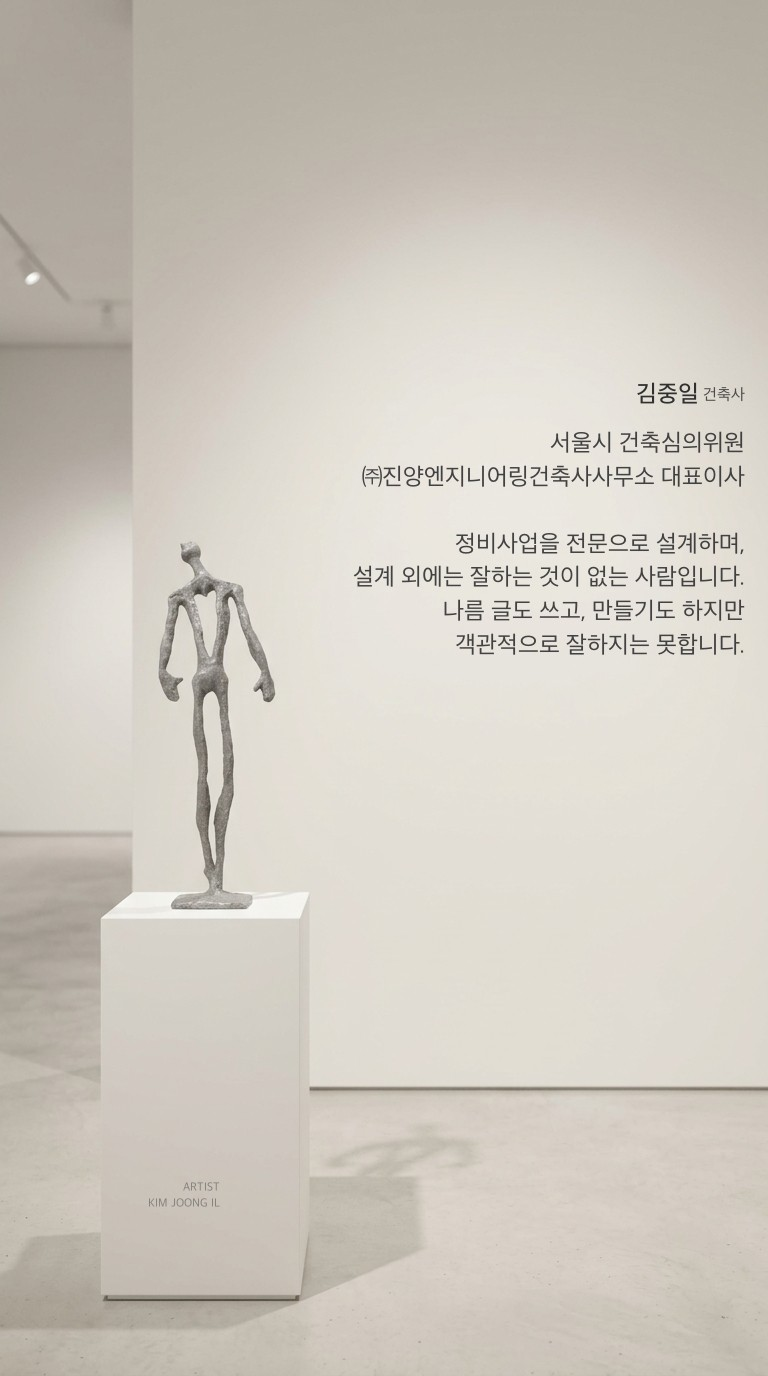
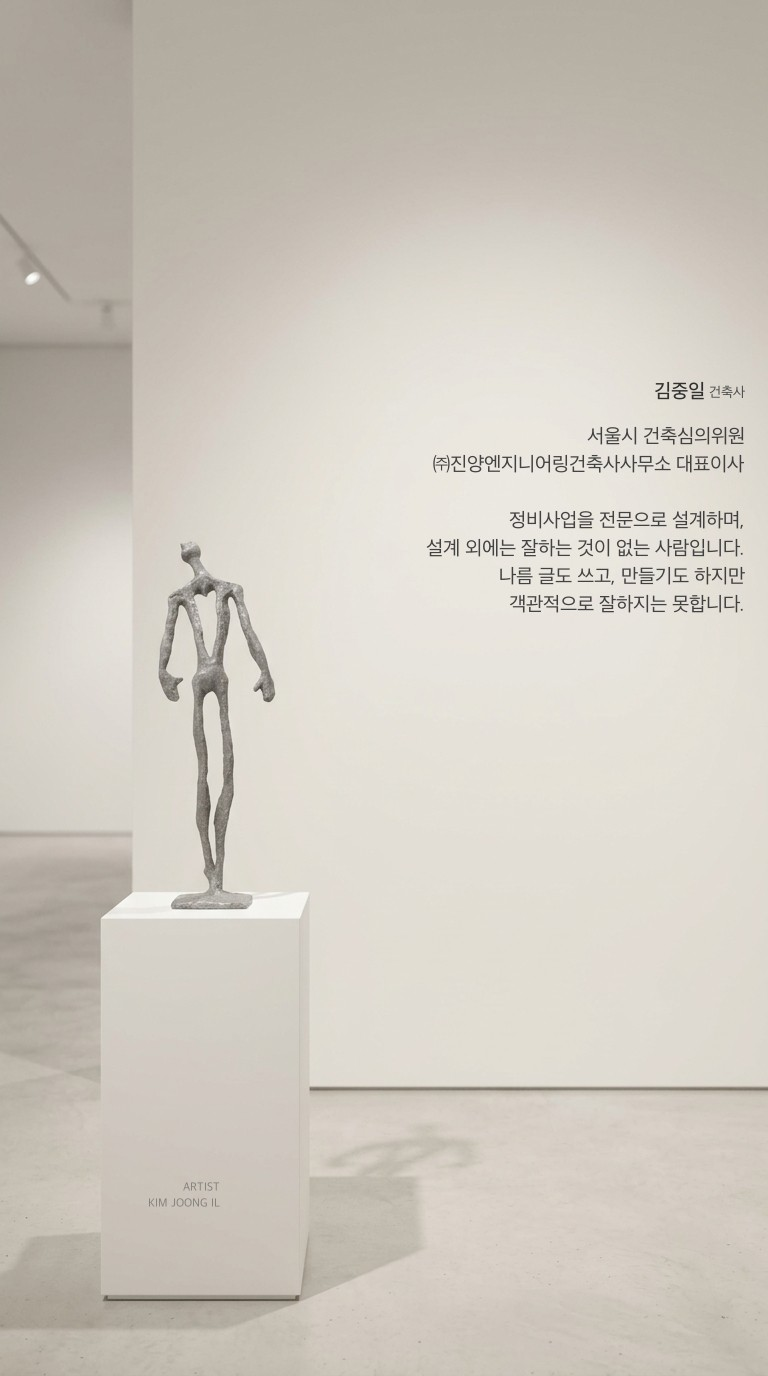
UI Tweak: Re-baked cover and author images with smaller typography for realism.

Changed region(s): [[0.4688, 0.2812, 0.9688, 0.4688]]

diff --git a/index.html b/index.html
@@ -644,7 +644,7 @@
     </div>
     <div class="toc-overlay" onclick="closeTOC()"></div>
 
-    <script src="book_data.js?v=20242487"></script>
+    <script src="book_data.js?v=20242488"></script>
     <script>
       
       // --- 마스터 개선 로직 주입 ---
@@ -780,8 +780,8 @@ let currentChapter = 0;
           
 
           let bgImage = page.image;
-          if (page.type === "cover") bgImage = "static/images/gallery_cover_baked.jpg?v=20242423";
-          if (page.type === "author_profile") bgImage = "static/images/gallery_author_baked.jpg?v=20242423";
+          if (page.type === "cover") bgImage = "static/images/gallery_cover_baked.jpg?v=20242488";
+          if (page.type === "author_profile") bgImage = "static/images/gallery_author_baked.jpg?v=20242488";
 
           if (bgImage) {
             let overlayCSS = "background: rgba(255,255,255, 0.6); backdrop-filter: blur(15px); -webkit-backdrop-filter: blur(15px);";
